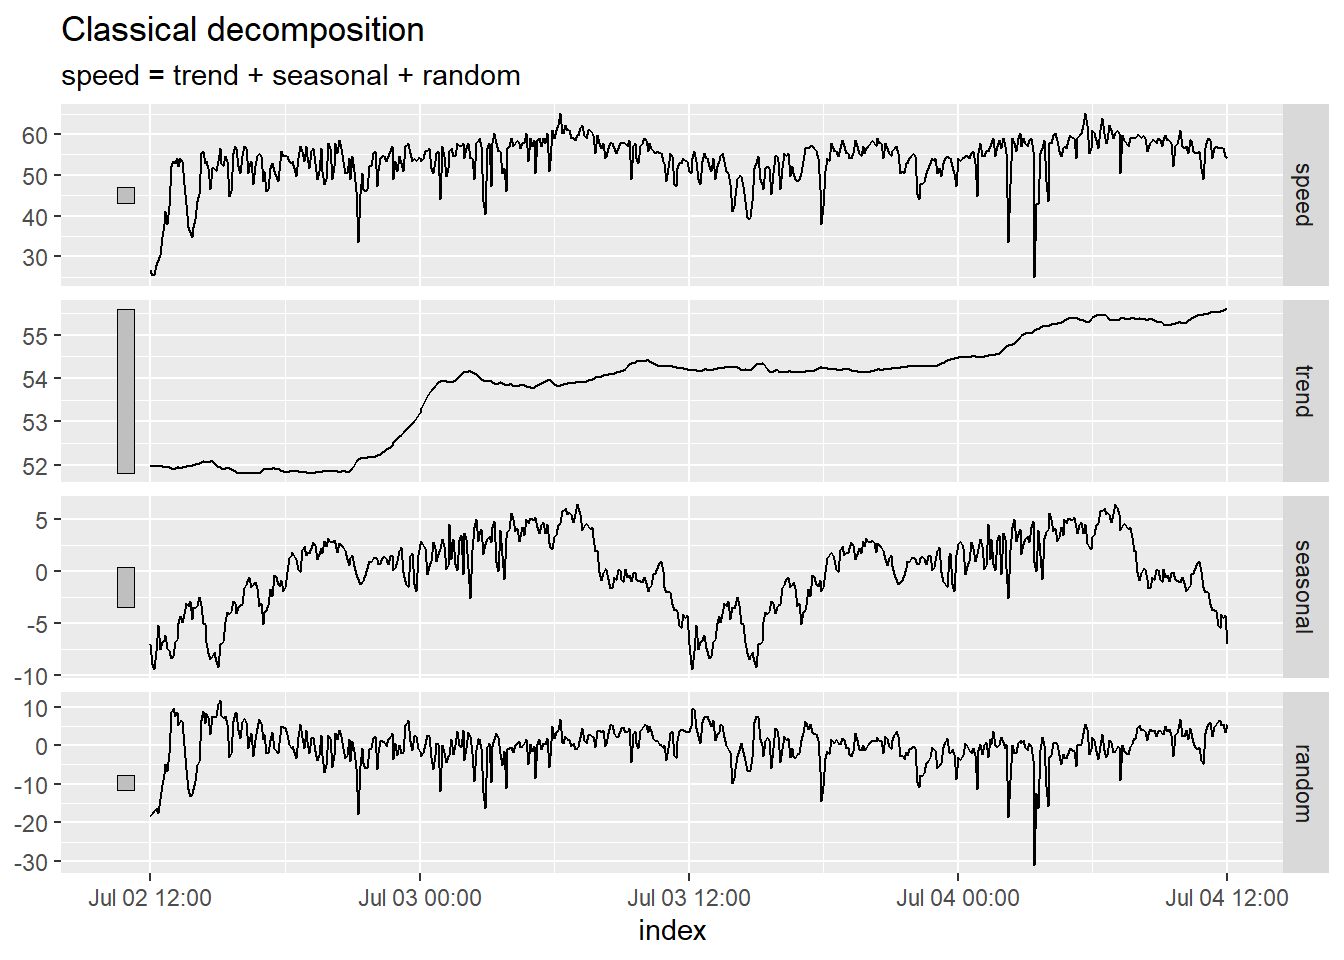
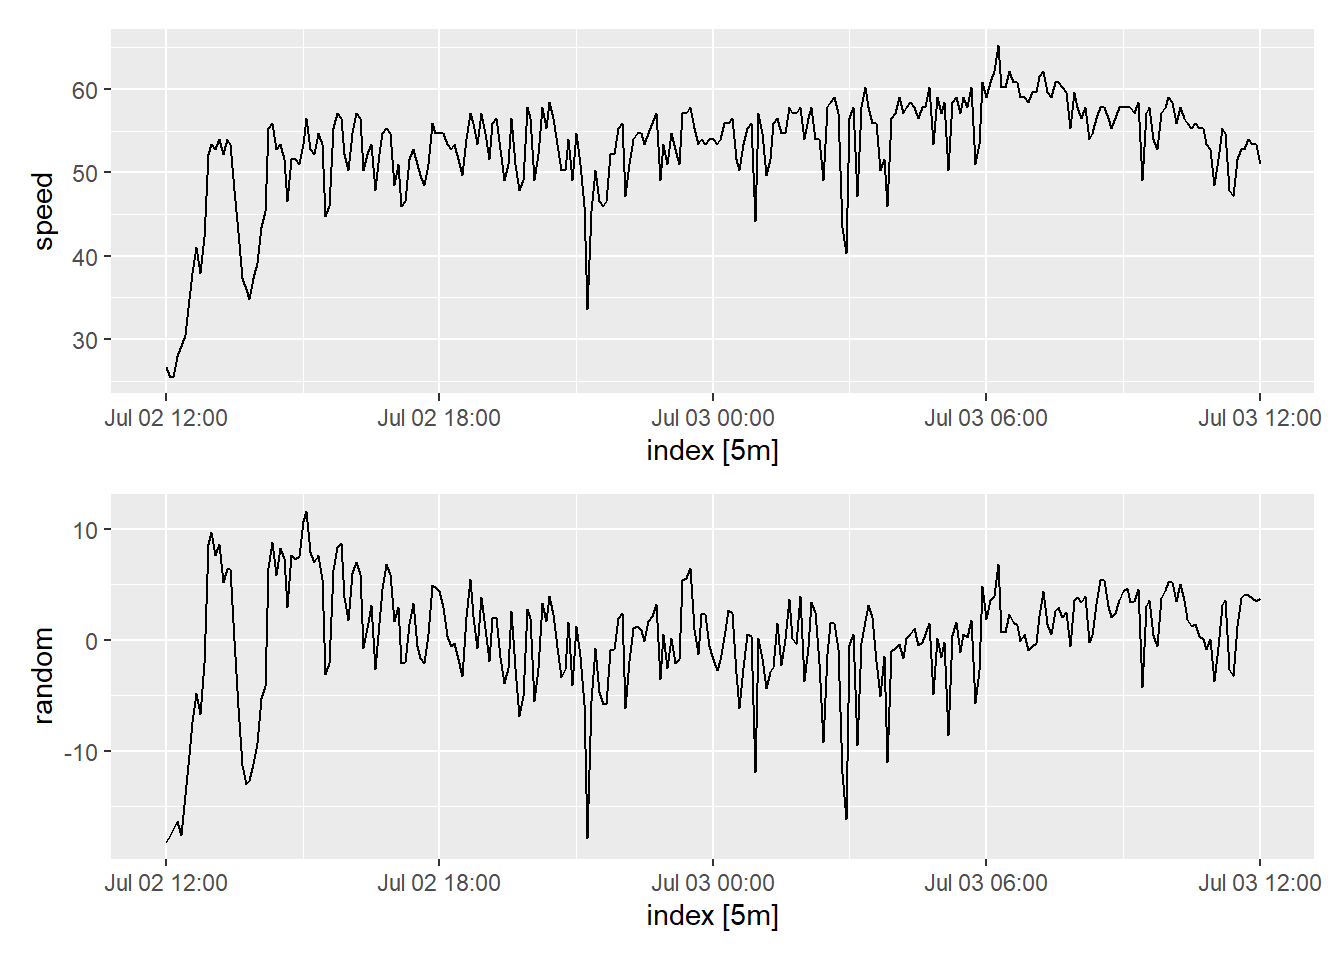
little updates

diff --git a/chapter_3/chapter_3_lesson_2_class.html b/chapter_3/chapter_3_lesson_2_class.html
@@ -490,8 +490,8 @@ Check Your Understanding
 <div class="columns">
 <div class="column" style="width:45%;">
 <p>The Bruckner Expressway (I-278) cuts through the Bronx in New York City. Traffic sensors record the speed of cars every 5 minutes between Stratford Avenue and Castle Hill Avenue.</p>
-<p>The data from 7/2/2022 to 7/22/2022 are contained in the file <a href="../data/ny_speeds.csv" download="">ny_speeds.csv</a>. (Source: City of New York Department of Transportation. Online Links: <a href="https://data.beta.nyc/dataset/nyc-real-time-traffic-speed-data-feed-archived">http://a841‐dotweb01.nyc.gov/datafeeds</a>.) These data have been cleaned to align the observations with five minute intervals.</p>
-<p>We will read these data into a tsibble and then compute and plot the decomposition.</p>
+<p>The data from 7/2/2022 to 7/17/2022 are contained in the file <a href="../data/ny_speeds.csv" download="">ny_speeds.csv</a>. (Source: City of New York Department of Transportation. Online Links: <a href="https://data.beta.nyc/dataset/nyc-real-time-traffic-speed-data-feed-archived">http://a841‐dotweb01.nyc.gov/datafeeds</a>.) These data have been cleaned to align the observations with five minute intervals.</p>
+<p>We will read these data into a tsibble.</p>
 </div><div class="column" style="width:10%;">
 <!-- empty column to create gap -->
 </div><div class="column" style="width:45%;">
@@ -520,51 +520,69 @@ Check Your Understanding
 <span id="cb3-12"><a href="#cb3-12" aria-hidden="true" tabindex="-1"></a>  ) <span class="sc">|&gt;</span></span>
 <span id="cb3-13"><a href="#cb3-13" aria-hidden="true" tabindex="-1"></a>  <span class="fu">rename</span>(<span class="at">speed =</span> Speed) <span class="sc">|&gt;</span></span>
 <span id="cb3-14"><a href="#cb3-14" aria-hidden="true" tabindex="-1"></a>  dplyr<span class="sc">::</span><span class="fu">select</span>(<span class="sc">-</span>Id, <span class="sc">-</span>TravelTime, <span class="sc">-</span>Status, <span class="sc">-</span>DataAsOf, <span class="sc">-</span>linkId) <span class="sc">|&gt;</span></span>
-<span id="cb3-15"><a href="#cb3-15" aria-hidden="true" tabindex="-1"></a>  <span class="co">#</span></span>
-<span id="cb3-16"><a href="#cb3-16" aria-hidden="true" tabindex="-1"></a>  <span class="co"># Limit the number of days</span></span>
-<span id="cb3-17"><a href="#cb3-17" aria-hidden="true" tabindex="-1"></a>  <span class="fu">filter</span>(date <span class="sc">&gt;=</span> <span class="fu">mdy</span>(<span class="st">"7/2/2022"</span>) <span class="sc">&amp;</span> date <span class="sc">&lt;</span> <span class="fu">mdy</span>(<span class="st">"7/18/2022"</span>)) <span class="sc">|&gt;</span></span>
-<span id="cb3-18"><a href="#cb3-18" aria-hidden="true" tabindex="-1"></a>  <span class="fu">tibble</span>()</span>
-<span id="cb3-19"><a href="#cb3-19" aria-hidden="true" tabindex="-1"></a></span>
-<span id="cb3-20"><a href="#cb3-20" aria-hidden="true" tabindex="-1"></a>ny_speeds_ts <span class="ot">&lt;-</span> ny_speeds_tb <span class="sc">|&gt;</span></span>
-<span id="cb3-21"><a href="#cb3-21" aria-hidden="true" tabindex="-1"></a>  <span class="fu">mutate</span>(<span class="at">index =</span> date) <span class="sc">|&gt;</span></span>
-<span id="cb3-22"><a href="#cb3-22" aria-hidden="true" tabindex="-1"></a>  <span class="fu">as_tsibble</span>(<span class="at">index =</span> index)</span>
-<span id="cb3-23"><a href="#cb3-23" aria-hidden="true" tabindex="-1"></a></span>
-<span id="cb3-24"><a href="#cb3-24" aria-hidden="true" tabindex="-1"></a>ny_speeds_decompose <span class="ot">&lt;-</span> ny_speeds_ts <span class="sc">|&gt;</span></span>
-<span id="cb3-25"><a href="#cb3-25" aria-hidden="true" tabindex="-1"></a>    <span class="fu">model</span>(feasts<span class="sc">::</span><span class="fu">classical_decomposition</span>(speed <span class="sc">~</span> <span class="fu">season</span>(<span class="dv">60</span><span class="sc">/</span><span class="dv">5</span><span class="sc">*</span><span class="dv">24</span>),</span>
-<span id="cb3-26"><a href="#cb3-26" aria-hidden="true" tabindex="-1"></a>        <span class="at">type =</span> <span class="st">"add"</span>))  <span class="sc">|&gt;</span></span>
-<span id="cb3-27"><a href="#cb3-27" aria-hidden="true" tabindex="-1"></a>    <span class="fu">components</span>()</span>
-<span id="cb3-28"><a href="#cb3-28" aria-hidden="true" tabindex="-1"></a></span>
-<span id="cb3-29"><a href="#cb3-29" aria-hidden="true" tabindex="-1"></a><span class="fu">autoplot</span>(ny_speeds_decompose)</span></code><button title="Copy to Clipboard" class="code-copy-button"><i class="bi"></i></button></pre></div>
+<span id="cb3-15"><a href="#cb3-15" aria-hidden="true" tabindex="-1"></a>  <span class="fu">tibble</span>()</span>
+<span id="cb3-16"><a href="#cb3-16" aria-hidden="true" tabindex="-1"></a></span>
+<span id="cb3-17"><a href="#cb3-17" aria-hidden="true" tabindex="-1"></a>ny_speeds_ts <span class="ot">&lt;-</span> ny_speeds_tb <span class="sc">|&gt;</span></span>
+<span id="cb3-18"><a href="#cb3-18" aria-hidden="true" tabindex="-1"></a>  <span class="fu">mutate</span>(<span class="at">index =</span> date) <span class="sc">|&gt;</span></span>
+<span id="cb3-19"><a href="#cb3-19" aria-hidden="true" tabindex="-1"></a>  <span class="fu">as_tsibble</span>(<span class="at">index =</span> index)</span></code><button title="Copy to Clipboard" class="code-copy-button"><i class="bi"></i></button></pre></div>
 </details>
-<div class="cell-output-display">
-<p><img src="chapter_3_lesson_2_class_files/figure-html/unnamed-chunk-3-1.png" class="img-fluid" width="672"></p>
 </div>
-</div>
+<p>Next, we compute the decomposition. We expect that that traffic will fluctuate in with daily seasonality. The number of five-minute periods in a day is:</p>
+<p><span class="math display">\[
+\underbrace{\frac{60}{5}}_{\substack{\text{Number of} \\ \text{5-minute periods} \\ \text{per hour}}} \cdot \underbrace{24}_{\substack{\text{Number of} \\ \text{hours} \\ \text{per day}}} = ~~ 288~~\text{five-minute periods per day}
+\]</span></p>
+<p>That is, the time series will follow a cycle that repeats every 288 five-minute intervals. Due to the complexity of the time series, we will indicate this to R in our function call. observations. (Try omitting “~season(288)” from the classical_decomposition statement and see what happens!)</p>
 <div class="cell">
-<div class="sourceCode cell-code" id="cb4"><pre class="sourceCode r code-with-copy"><code class="sourceCode r"><span id="cb4-1"><a href="#cb4-1" aria-hidden="true" tabindex="-1"></a>speed_plot <span class="ot">&lt;-</span> ny_speeds_decompose <span class="sc">|&gt;</span> </span>
-<span id="cb4-2"><a href="#cb4-2" aria-hidden="true" tabindex="-1"></a>  <span class="fu">filter</span>((index) <span class="sc">&lt;=</span> <span class="fu">mdy_hm</span>(<span class="st">"7/3/2022 12:00"</span>)) <span class="sc">|&gt;</span> </span>
-<span id="cb4-3"><a href="#cb4-3" aria-hidden="true" tabindex="-1"></a>  <span class="fu">na.omit</span>() <span class="sc">|&gt;</span> </span>
-<span id="cb4-4"><a href="#cb4-4" aria-hidden="true" tabindex="-1"></a>  dplyr<span class="sc">::</span><span class="fu">select</span>(speed) <span class="sc">|&gt;</span> </span>
-<span id="cb4-5"><a href="#cb4-5" aria-hidden="true" tabindex="-1"></a>  <span class="fu">autoplot</span>(<span class="at">.vars =</span> speed)</span>
-<span id="cb4-6"><a href="#cb4-6" aria-hidden="true" tabindex="-1"></a>rand_plot <span class="ot">&lt;-</span> ny_speeds_decompose <span class="sc">|&gt;</span> </span>
-<span id="cb4-7"><a href="#cb4-7" aria-hidden="true" tabindex="-1"></a>  <span class="fu">filter</span>((index) <span class="sc">&lt;=</span> <span class="fu">mdy_hm</span>(<span class="st">"7/3/2022 12:00"</span>)) <span class="sc">|&gt;</span> </span>
-<span id="cb4-8"><a href="#cb4-8" aria-hidden="true" tabindex="-1"></a>  <span class="fu">na.omit</span>() <span class="sc">|&gt;</span> </span>
-<span id="cb4-9"><a href="#cb4-9" aria-hidden="true" tabindex="-1"></a>  dplyr<span class="sc">::</span><span class="fu">select</span>(random) <span class="sc">|&gt;</span> </span>
-<span id="cb4-10"><a href="#cb4-10" aria-hidden="true" tabindex="-1"></a>  <span class="fu">autoplot</span>(<span class="at">.vars =</span> random)</span>
-<span id="cb4-11"><a href="#cb4-11" aria-hidden="true" tabindex="-1"></a></span>
-<span id="cb4-12"><a href="#cb4-12" aria-hidden="true" tabindex="-1"></a>speed_plot <span class="sc">/</span> rand_plot</span></code><button title="Copy to Clipboard" class="code-copy-button"><i class="bi"></i></button></pre></div>
+<div class="sourceCode cell-code" id="cb4"><pre class="sourceCode r code-with-copy"><code class="sourceCode r"><span id="cb4-1"><a href="#cb4-1" aria-hidden="true" tabindex="-1"></a>ny_speeds_decompose <span class="ot">&lt;-</span> ny_speeds_ts <span class="sc">|&gt;</span></span>
+<span id="cb4-2"><a href="#cb4-2" aria-hidden="true" tabindex="-1"></a>    <span class="fu">model</span>(feasts<span class="sc">::</span><span class="fu">classical_decomposition</span>(speed <span class="sc">~</span> <span class="fu">season</span>(<span class="dv">288</span>),</span>
+<span id="cb4-3"><a href="#cb4-3" aria-hidden="true" tabindex="-1"></a>        <span class="at">type =</span> <span class="st">"add"</span>))  <span class="sc">|&gt;</span></span>
+<span id="cb4-4"><a href="#cb4-4" aria-hidden="true" tabindex="-1"></a>    <span class="fu">components</span>()</span>
+<span id="cb4-5"><a href="#cb4-5" aria-hidden="true" tabindex="-1"></a></span>
+<span id="cb4-6"><a href="#cb4-6" aria-hidden="true" tabindex="-1"></a><span class="fu">autoplot</span>(ny_speeds_decompose)</span></code><button title="Copy to Clipboard" class="code-copy-button"><i class="bi"></i></button></pre></div>
 <div class="cell-output-display">
 <p><img src="chapter_3_lesson_2_class_files/figure-html/unnamed-chunk-4-1.png" class="img-fluid" width="672"></p>
 </div>
 </div>
-<p>Here are 48 hours of data, near the beginning of the time series.</p>
+<div class="callout callout-style-default callout-tip no-icon callout-titled" title="Check Your Understanding">
+<div class="callout-header d-flex align-content-center">
+<div class="callout-icon-container">
+<i class="callout-icon no-icon"></i>
+</div>
+<div class="callout-title-container flex-fill">
+Check Your Understanding
+</div>
+</div>
+<div class="callout-body-container callout-body">
+<ul>
+<li>Why is there no estimate for the trend or the random component for the first half of the first day and the last half of the last day?</li>
+</ul>
+</div>
+</div>
 <div class="cell">
-<div class="sourceCode cell-code" id="cb5"><pre class="sourceCode r code-with-copy"><code class="sourceCode r"><span id="cb5-1"><a href="#cb5-1" aria-hidden="true" tabindex="-1"></a>ny_speeds_decompose <span class="sc">|&gt;</span> </span>
-<span id="cb5-2"><a href="#cb5-2" aria-hidden="true" tabindex="-1"></a>  <span class="fu">filter</span>((index) <span class="sc">&lt;=</span> <span class="fu">mdy_hm</span>(<span class="st">"7/4/2022 12:00"</span>)) <span class="sc">|&gt;</span> </span>
+<div class="sourceCode cell-code" id="cb5"><pre class="sourceCode r code-with-copy"><code class="sourceCode r"><span id="cb5-1"><a href="#cb5-1" aria-hidden="true" tabindex="-1"></a>speed_plot <span class="ot">&lt;-</span> ny_speeds_decompose <span class="sc">|&gt;</span> </span>
+<span id="cb5-2"><a href="#cb5-2" aria-hidden="true" tabindex="-1"></a>  <span class="fu">filter</span>((index) <span class="sc">&lt;=</span> <span class="fu">mdy_hm</span>(<span class="st">"7/3/2022 12:00"</span>)) <span class="sc">|&gt;</span> </span>
 <span id="cb5-3"><a href="#cb5-3" aria-hidden="true" tabindex="-1"></a>  <span class="fu">na.omit</span>() <span class="sc">|&gt;</span> </span>
-<span id="cb5-4"><a href="#cb5-4" aria-hidden="true" tabindex="-1"></a>  <span class="fu">autoplot</span>()</span></code><button title="Copy to Clipboard" class="code-copy-button"><i class="bi"></i></button></pre></div>
+<span id="cb5-4"><a href="#cb5-4" aria-hidden="true" tabindex="-1"></a>  dplyr<span class="sc">::</span><span class="fu">select</span>(speed) <span class="sc">|&gt;</span> </span>
+<span id="cb5-5"><a href="#cb5-5" aria-hidden="true" tabindex="-1"></a>  <span class="fu">autoplot</span>(<span class="at">.vars =</span> speed)</span>
+<span id="cb5-6"><a href="#cb5-6" aria-hidden="true" tabindex="-1"></a>rand_plot <span class="ot">&lt;-</span> ny_speeds_decompose <span class="sc">|&gt;</span> </span>
+<span id="cb5-7"><a href="#cb5-7" aria-hidden="true" tabindex="-1"></a>  <span class="fu">filter</span>((index) <span class="sc">&lt;=</span> <span class="fu">mdy_hm</span>(<span class="st">"7/3/2022 12:00"</span>)) <span class="sc">|&gt;</span> </span>
+<span id="cb5-8"><a href="#cb5-8" aria-hidden="true" tabindex="-1"></a>  <span class="fu">na.omit</span>() <span class="sc">|&gt;</span> </span>
+<span id="cb5-9"><a href="#cb5-9" aria-hidden="true" tabindex="-1"></a>  dplyr<span class="sc">::</span><span class="fu">select</span>(random) <span class="sc">|&gt;</span> </span>
+<span id="cb5-10"><a href="#cb5-10" aria-hidden="true" tabindex="-1"></a>  <span class="fu">autoplot</span>(<span class="at">.vars =</span> random)</span>
+<span id="cb5-11"><a href="#cb5-11" aria-hidden="true" tabindex="-1"></a></span>
+<span id="cb5-12"><a href="#cb5-12" aria-hidden="true" tabindex="-1"></a>speed_plot <span class="sc">/</span> rand_plot</span></code><button title="Copy to Clipboard" class="code-copy-button"><i class="bi"></i></button></pre></div>
 <div class="cell-output-display">
 <p><img src="chapter_3_lesson_2_class_files/figure-html/unnamed-chunk-5-1.png" class="img-fluid" width="672"></p>
+</div>
+</div>
+<p>Here are 48 hours of data, near the beginning of the time series.</p>
+<div class="cell">
+<div class="sourceCode cell-code" id="cb6"><pre class="sourceCode r code-with-copy"><code class="sourceCode r"><span id="cb6-1"><a href="#cb6-1" aria-hidden="true" tabindex="-1"></a>ny_speeds_decompose <span class="sc">|&gt;</span> </span>
+<span id="cb6-2"><a href="#cb6-2" aria-hidden="true" tabindex="-1"></a>  <span class="fu">filter</span>((index) <span class="sc">&lt;=</span> <span class="fu">mdy_hm</span>(<span class="st">"7/4/2022 12:00"</span>)) <span class="sc">|&gt;</span> </span>
+<span id="cb6-3"><a href="#cb6-3" aria-hidden="true" tabindex="-1"></a>  <span class="fu">na.omit</span>() <span class="sc">|&gt;</span> </span>
+<span id="cb6-4"><a href="#cb6-4" aria-hidden="true" tabindex="-1"></a>  <span class="fu">autoplot</span>()</span></code><button title="Copy to Clipboard" class="code-copy-button"><i class="bi"></i></button></pre></div>
+<div class="cell-output-display">
+<p><img src="chapter_3_lesson_2_class_files/figure-html/unnamed-chunk-6-1.png" class="img-fluid" width="672"></p>
 </div>
 </div>
 </section>
